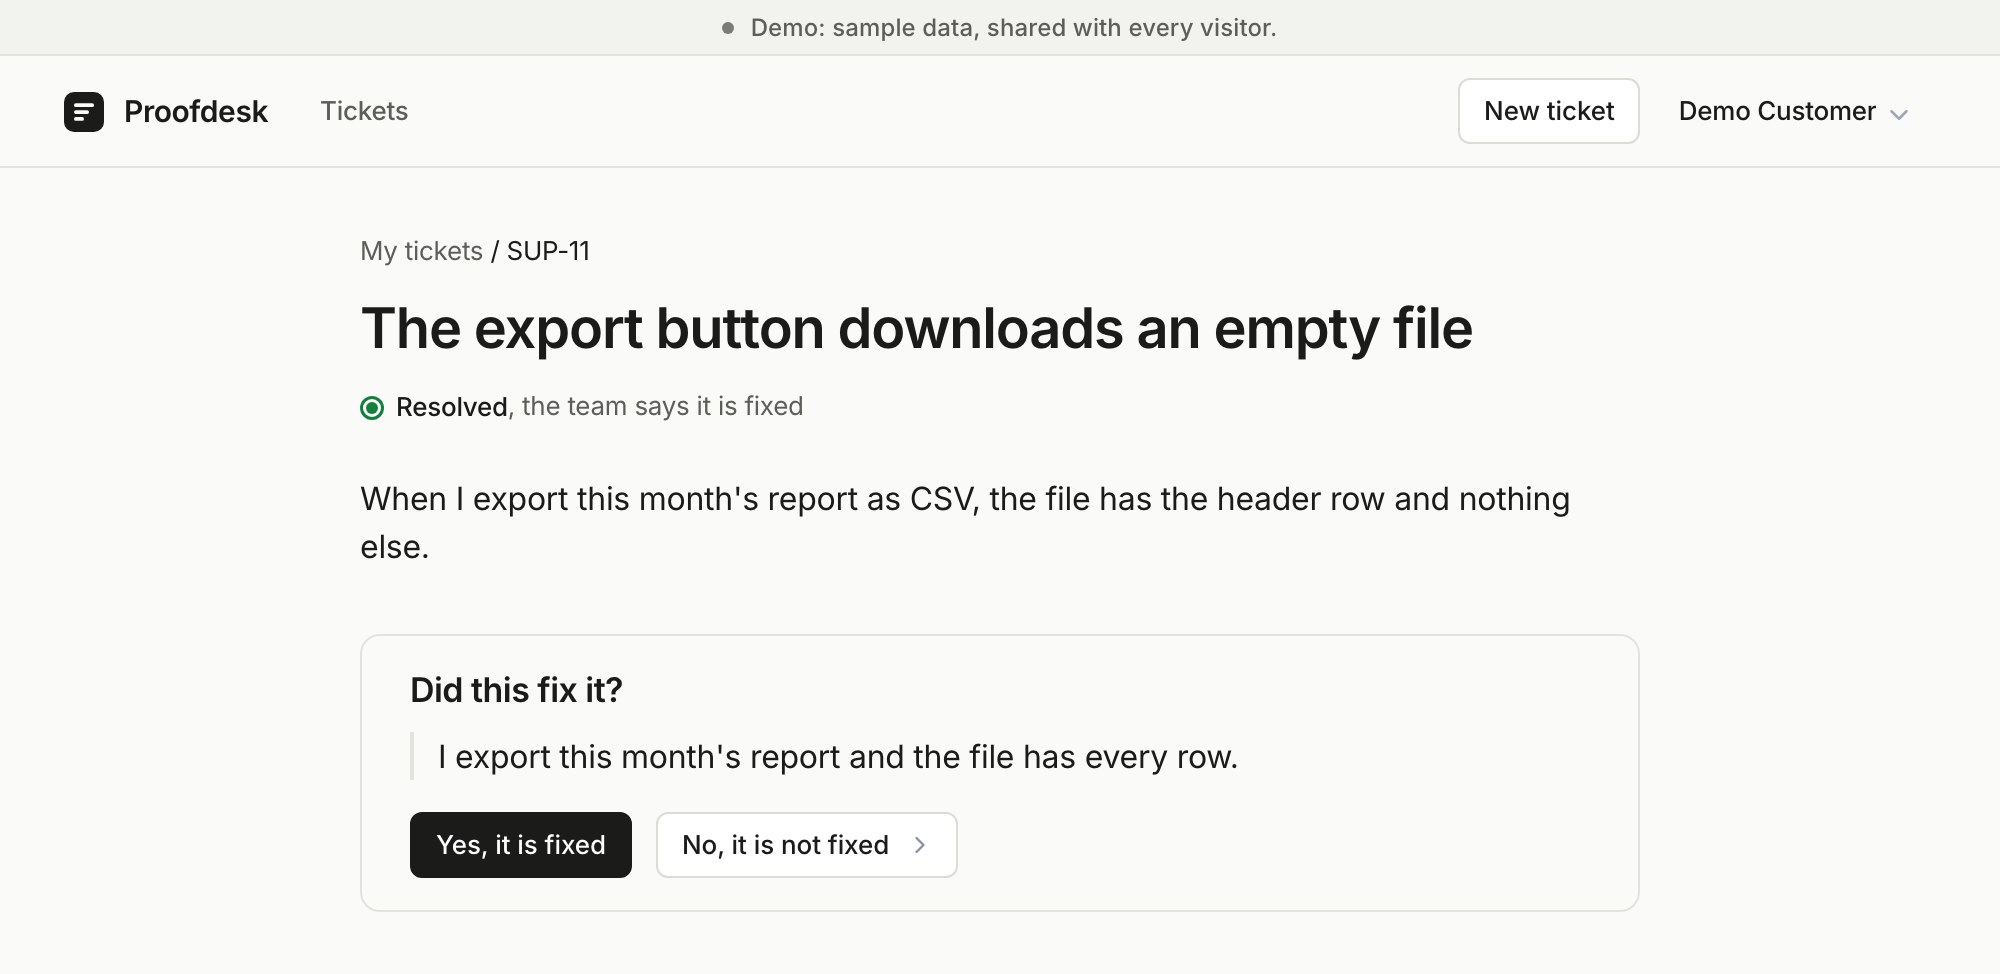
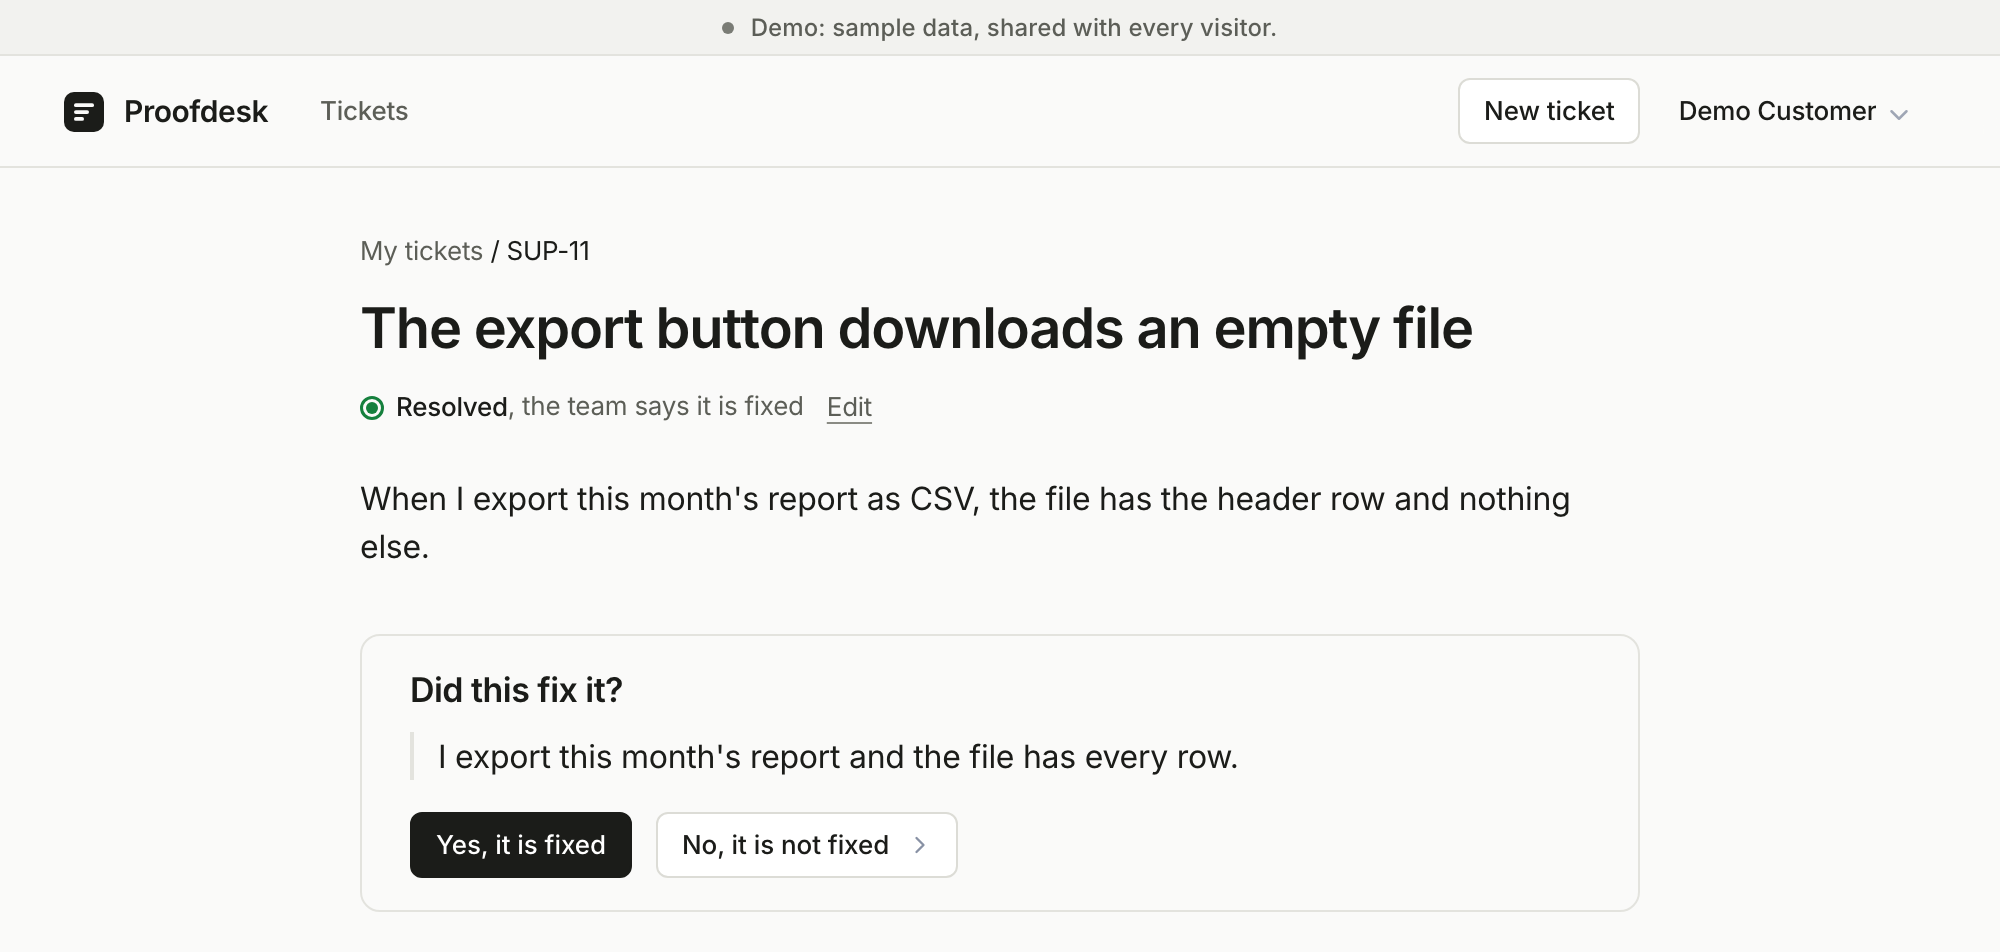
Describe Edit beside the title and the Open filter in the docs
The tour, the spec and the README said All left out tickets resolved
more than 14 days ago, named the "Resolved:" group and put Edit ticket
under More options. They now say what the pages do, the spec has a dated
entry, the roadmap has the customer withdrawing their own ticket, and
the README's three pictures are retaken from a fresh local demo because
each shows a changed line.

diff --git a/tests/docs/docs-last-leftovers.test.ts b/tests/docs/docs-last-leftovers.test.ts
@@ -2,7 +2,7 @@ import fs from "node:fs";
 import { describe, expect, it } from "vitest";
 
 // The last docs pass: the tour names the demo's sample batch as the view draws it, the age
-// filter is described as appearing only once there is an older resolved ticket, a roadmap line
+// filter is described as appearing only under Resolved, a roadmap line
 // lost a promise the product does not plan, prose fits the files' width, and the build log
 // has a row for each pull request merged since its last row.
 
@@ -29,10 +29,16 @@ describe("the demo's sample batch, in the tour", () => {
 });
 
 describe("the age filter, in the tour and the spec", () => {
-  it("appears once a ticket was resolved more than 14 days ago", () => {
-    const words = 'once a ticket was resolved more than 14 days ago, a "Resolved:" filter';
-    expect(tour).toContain(words);
-    expect(flat("docs/SPEC.md")).toContain(words);
+  it("appears only under Resolved, and All shows every ticket", () => {
+    expect(tour).toContain("Under **Resolved**, with nothing searched, a small group reads");
+    expect(tour).toContain("**All** shows every ticket");
+    const spec = flat("docs/SPEC.md");
+    expect(spec).toContain("Under Resolved, with nothing searched, a small group offers Any age");
+    expect(spec).toContain("### 2026-11-20: Edit beside the title, and Open on the list");
+    for (const file of [tour, spec, flat("README.md")]) {
+      expect(file).not.toContain('"Resolved:" filter');
+      expect(file).not.toContain("leaves out tickets resolved more than 14 days ago");
+    }
   });
 });
 

diff --git a/tests/docs/docs-closing.test.ts b/tests/docs/docs-closing.test.ts
@@ -37,9 +37,11 @@ describe("marking fixed, in the docs", () => {
 describe("the list's words, in the tour", () => {
   it("names the age filter's labels and addresses as the view draws them", () => {
     const list = read("views/ticket-list.ejs");
-    expect(list).toContain('[["recent", "Last 14 days"], ["older", "Older"], ["any", "Any age"]]');
-    expect(tour).toContain('a "Resolved:" filter reads **Last 14 days**, **Older** with its count');
-    expect(tour).toContain("`?resolved=older` or `?resolved=any`");
+    expect(list).toContain('[["any", "Any age"], ["recent", "Last 14 days"], ["older", "Older"]]');
+    expect(tour).toContain("a small group reads **Any age**, **Last 14 days** and **Older**");
+    expect(tour).toContain("`?resolved=recent` or `?resolved=older`");
+    expect(tour).not.toContain('"Resolved:"');
+    expect(tour).not.toContain("resolved=any");
     expect(tour).not.toContain("a line under the list says how many older resolved tickets");
   });
 
@@ -80,7 +82,7 @@ describe("the records", () => {
       .slice(start, roadmap.indexOf("## Already built"))
       .split("\n")
       .filter((line) => line.startsWith("- "));
-    expect(ideas).toHaveLength(13);
+    expect(ideas).toHaveLength(14);
     expect(new Set(ideas).size).toBe(ideas.length);
   });
 });

diff --git a/tests/docs/docs-match-merged-product.test.ts b/tests/docs/docs-match-merged-product.test.ts
@@ -81,7 +81,7 @@ describe("the demo, as the README describes it", () => {
   it("captions the ticket list without the Archived tab the demo no longer shows", () => {
     const tag = /<img src="docs\/img\/ticket-list.png"[^>]*>/.exec(readme)![0];
     expect(tag).not.toContain("Archived");
-    expect(tag).toContain("All, New, In Progress and Resolved");
+    expect(tag).toContain("All, Open, New, In Progress and Resolved");
   });
 
   it("states the recorded run's scope the way the assistant page does", () => {

diff --git a/docs/SPEC.md b/docs/SPEC.md
@@ -221,7 +221,7 @@ Fixes and smaller calls the same evening, under the owner's call that ticketing 
 The owner's reason for the product, in his words: "AIs do best when the prompts are basically broken into context, the problem, and testing so that they can verify whether the stated problem is complete." A ticket now has that shape: the title is the problem, the description the context, and "What would prove it is fixed?" the proof. Fixes and his explicit asks of the day; the three statuses are unchanged.
 
 - **The proof is a second step.** The form asks for the title, the description and pictures; the filed ticket then asks "What would prove it is fixed?" with one box, Save and Skip for now. The customer can change it later. The edit form no longer holds it.
-- **The list leads with proof.** A Proof column marks a ticket that says what would prove it is fixed, and the customer's Yes with a solid green check. By default, New tickets with a proof come first. All leaves out tickets resolved more than 14 days ago and says how many are under Resolved.
+- **The list leads with proof.** A Proof column marks a ticket that says what would prove it is fixed, and the customer's Yes with a solid green check. By default, New tickets with a proof come first. All shows every ticket; Resolved can be narrowed by age (see 2026-11-20).
 - **Marking fixed resolves.** The team's step is "Mark fixed and tell the customer": the ticket is resolved at once as "Fixed. Not customer-confirmed." and the customer is told. Their "Yes, it is fixed" is optional and marks it confirmed; their No reopens it with their words. The old ask stays under More options as "Ask before resolving". This replaces "Yes resolves the ticket" under the customer's side.
 - **The ticket page is one centred column.** Status and Owner are two small menus under the title; the side panel, its row of three status buttons and the card are gone. Resolving from the Status menu opens one short form with five reasons.
 - **The list.** The "Waiting on" column became a short tag after the status, shown only when it is not the team's turn. The search finds words in any order and form. The team can tick rows and change their status or owner together, from a bar over the filter row, by the same rules as one ticket.
@@ -236,5 +236,12 @@ The owner's reason for the product, in his words: "AIs do best when the prompts 
 The owner's call: "What would prove it is fixed?" is there so that the person who marks a ticket fixed certifies that the fix did what it says, not so that they reply with evidence. Fixes only; the three statuses are unchanged.
 
 - **Marking fixed agrees the proof.** Above "Mark fixed and tell the customer" one grey line quotes the customer: `By marking it fixed, you agree this is met: "<the proof>"`. The Status menu's Fixed choice shows the same line. History reads "Resolved by the team: Fixed. Agreed that what would prove it is fixed was met. Not customer-confirmed." The ticket page's "Add evidence of the fix" form is gone: a person shows anything else in the conversation. An assistant still attaches evidence through the API and the MCP tools, and it still shows on the ticket as reported. The list's bulk bar no longer offers Fixed, because each ticket's proof is agreed on its own page; the JSON API still accepts it.
-- **Resolved tickets by age.** On All, with nothing searched, once a ticket was resolved more than 14 days ago, a "Resolved:" filter offers Last 14 days (the default), Older with its count, and Any age, kept in the address as `resolved=older` or `resolved=any`. This replaces the line under the list in the entry above. The JSON API is unchanged. The demo has two samples resolved more than 14 days ago.
+- **Resolved tickets by age.** Under Resolved, with nothing searched, a small group offers Any age (the default), Last 14 days, and Older with its count, kept in the address as `resolved=recent` or `resolved=older` (see 2026-11-20). The JSON API is unchanged. The demo has two samples resolved more than 14 days ago.
 - **The customer's list** tags a ticket marked fixed "Needs your answer" and puts it first in their default order.
+
+### 2026-11-20: Edit beside the title, and Open on the list
+
+Fixes only; the rules, the JSON API and the three statuses are unchanged.
+
+- **Edit beside the title.** Whoever may edit a ticket finds a quiet **Edit** link at the end of the line under the title, no longer under More options. The customer who filed a ticket that is not resolved finds **Archive** beside it, and the archive page says it is for a ticket filed by mistake or twice. The team's Archive ticket stays under More options, and More options is left out when nothing is in it.
+- **Open on the list.** The status row reads All, Open, New, In Progress and Resolved, each with its count. Open is every ticket that is not resolved, kept in the address as `status=open`. All shows every ticket, with no 14-day rule. The filter by age shows only under Resolved, as above; an old address with `resolved=any` shows any age.

diff --git a/README.md b/README.md
@@ -13,7 +13,7 @@ Say what would prove it is fixed, and your ticket is listed first and checked ag
 - **The production site, with GitHub sign-in: <https://proofdesk.fly.dev>.**
 - **The source: <https://github.com/yylerbrown/proofdesk>.**
 
-<img src="docs/img/ticket-list.png" width="720" alt="The team member's ticket list on the demo, which has no welcome card: status filters All, New, In Progress and Resolved with a count beside each status, the Mine and Unassigned toggles, a &quot;Resolved:&quot; filter reading Last 14 days, Older 2 and Any age, a search box reading &quot;Search, then press Enter&quot;, and the sample tickets with their key, title, status, owner and when each was filed, under column headers that sort the list. In the Proof column a pale check marks a ticket that says what would prove it fixed, a solid green check marks one its customer confirmed, and one New ticket has neither; a line under the list names the two marks">
+<img src="docs/img/ticket-list.png" width="720" alt="The team member's ticket list on the demo, which has no welcome card: status filters All, Open, New, In Progress and Resolved with a count beside each but All, the Mine and Unassigned toggles, a search box reading &quot;Search, then press Enter&quot;, and every sample ticket, open ones first, with its key, title, status, owner and when it was filed, under column headers that sort the list. In the Proof column a pale check marks a ticket that says what would prove it fixed, a solid green check marks one its customer confirmed, and one New ticket has neither; a line under the list names the two marks">
 
 ## Run it yourself
 
@@ -41,7 +41,7 @@ On the demo, in about two minutes, with eight presses:
 2. The filed ticket asks "What would prove it is fixed?", with three sample suggestions and the
    first in the box. Press **Save**: the ticket is **New**, with your words under that label.
 
-<img src="docs/img/what-would-prove-it.png" width="560" alt="The step after filing, in a bordered card: under &quot;What would prove it is fixed?&quot; two grey lines, a hint and a note that these are sample suggestions, then three sample suggestions to pick from, a box holding the first one, and the buttons &quot;Save&quot; and &quot;Skip for now&quot;">
+<img src="docs/img/what-would-prove-it.png" width="560" alt="The step after filing, under the title's line &quot;New, not yet taken by the team&quot; and its quiet &quot;Edit&quot; link, in a bordered card: under &quot;What would prove it is fixed?&quot; two grey lines, a hint and a note that these are sample suggestions, then three sample suggestions to pick from, a box holding the first one, and the buttons &quot;Save&quot; and &quot;Skip for now&quot;">
 
 3. Press **View this ticket as a team member**, then **Take ticket and start work**. The ticket
    is **In Progress**, and you own it.
@@ -50,7 +50,7 @@ On the demo, in about two minutes, with eight presses:
    this fix it?": the ticket reads "Resolved, customer confirmed", with a solid green check in
    the list's Proof column.
 
-<img src="docs/img/did-this-fix-it.png" width="560" alt="The customer's view of a ticket the team marked fixed: &quot;Resolved, the team says it is fixed&quot; under the title, then a bordered card with &quot;Did this fix it?&quot; over their own words, then the button &quot;Yes, it is fixed&quot; and the fold-open &quot;No, it is not fixed&quot;">
+<img src="docs/img/did-this-fix-it.png" width="560" alt="The customer's view of a ticket the team marked fixed: &quot;Resolved, the team says it is fixed&quot; under the title with a quiet &quot;Edit&quot; link, then a bordered card with &quot;Did this fix it?&quot; over their own words, then the button &quot;Yes, it is fixed&quot; and the fold-open &quot;No, it is not fixed&quot;">
 
 The customer's Yes is optional, and their "No, it is not fixed" sends the ticket back to the
 team with their words. The team's Status menu, under the title, moves a ticket between New and

diff --git a/docs/TOUR.md b/docs/TOUR.md
@@ -29,7 +29,7 @@ Each one takes under a minute on the demo, which opens on the ticket list as the
 
 - Start as: Demo Team Member, on All tickets
 - Press: Nothing at first; then a column header, to sort by it instead
-- You should see: A narrow **Proof** column after Status. A pale grey check says the ticket states what would prove it is fixed, a solid green circle with a check says the customer confirmed it, and a ticket with neither has no mark. One quiet line under the list names both marks: "Says what would prove it is fixed" and "Customer confirmed". With no header pressed, New tickets that say what would prove them fixed come first, newest first, then the other open tickets, then resolved ones. On All, with nothing searched, once a ticket was resolved more than 14 days ago, a "Resolved:" filter reads **Last 14 days**, **Older** with its count, and **Any age**. Last 14 days is the default; the other two add `?resolved=older` or `?resolved=any` to the address. The demo has two samples resolved more than 14 days ago, SUP-9 and SUP-10, under Older.
+- You should see: A narrow **Proof** column after Status. A pale grey check says the ticket states what would prove it is fixed, a solid green circle with a check says the customer confirmed it, and a ticket with neither has no mark. One quiet line under the list names both marks: "Says what would prove it is fixed" and "Customer confirmed". With no header pressed, New tickets that say what would prove them fixed come first, newest first, then the other open tickets, then resolved ones. **All** shows every ticket, and **Open**, between All and New, every ticket that is not resolved. Under **Resolved**, with nothing searched, a small group reads **Any age**, **Last 14 days** and **Older** with its count. Any age is the default; the other two add `?resolved=recent` or `?resolved=older` to the address. The demo has two samples resolved more than 14 days ago, SUP-9 and SUP-10, under Older.
 
 **Update status: New to In Progress**
 
@@ -64,7 +64,7 @@ Each one takes under a minute on the demo, which opens on the ticket list as the
 **Two people on one ticket**
 
 - Start as: Demo Team Member, with the ticket you filed open in two tabs
-- Press: **More options**, then **Edit ticket** in both tabs, save a change in one, then save in the other
+- Press: **Edit**, at the end of the line under the title, in both tabs, save a change in one, then save in the other
 - You should see: The second save is refused and keeps what you typed, naming only what the other person changed, such as `They changed: Title, now "..."`. A tab left open on a ticket someone else changed says what changed when it can, such as "This ticket is now In Progress. Refresh to see it." or "This ticket has a new message. Refresh to see it.", and otherwise "This ticket changed. Refresh to see it."
 
 **GitHub sign-in with roles**

diff --git a/docs/ROADMAP.md b/docs/ROADMAP.md
@@ -71,6 +71,8 @@ Each is one line, raised while the demo was walked before sending, to weigh afte
 - Shorter role names in the demo's menu, so the header does not shift when switching.
 - Web addresses in a description shown as links, and a box on the form for the page it happened on.
 - A live replay of the recorded assistant run, with its real times.
+- A customer withdrawing their own ticket with a reason (a mistake, a duplicate, no longer needed),
+  shown as Resolved and labelled as withdrawn by the customer.
 
 ## Already built
 
